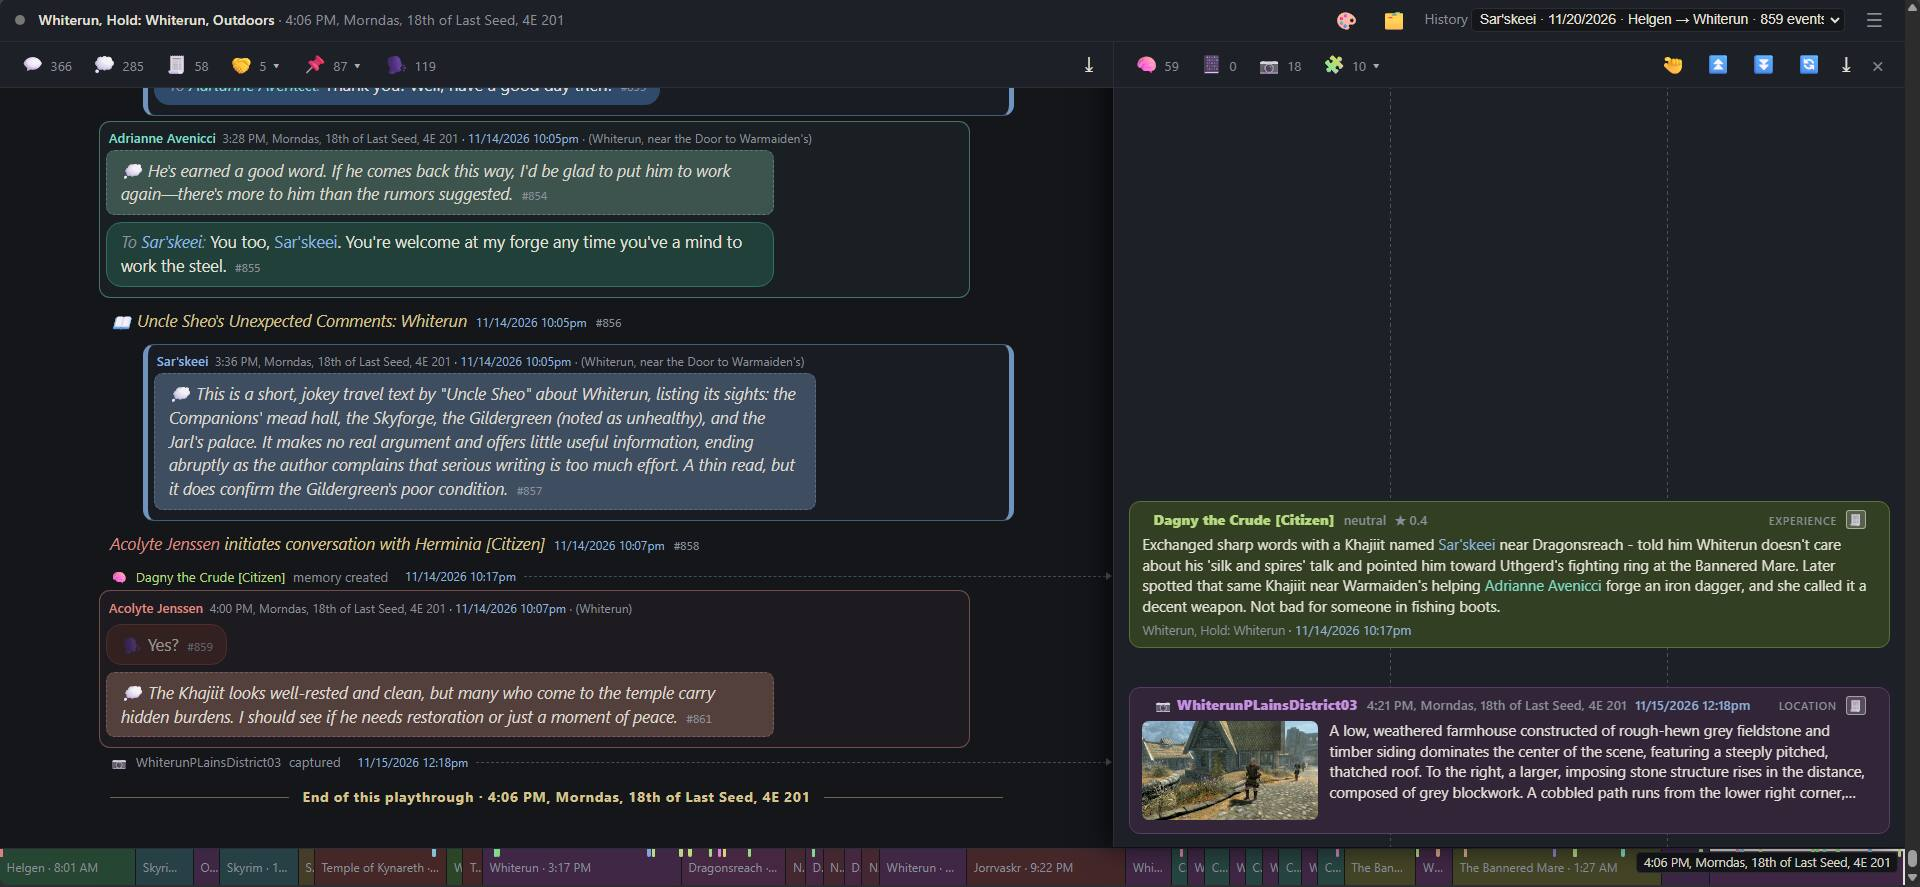
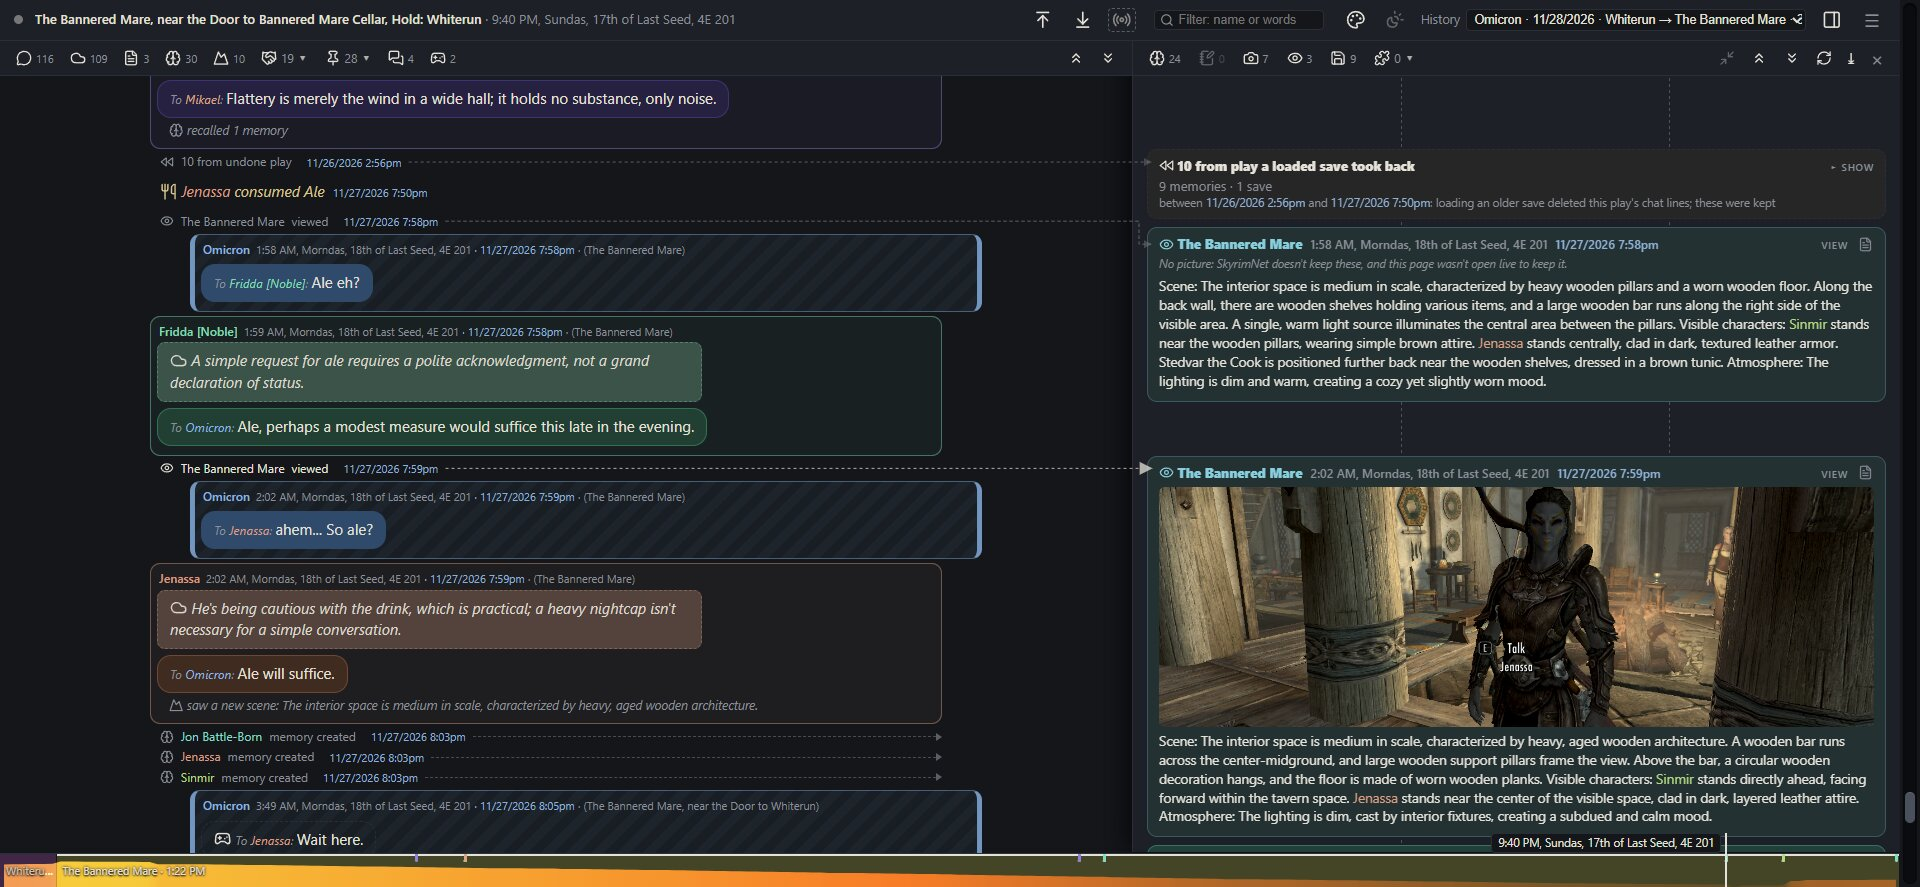
🖼 New README screenshots: 📌 connectors, ⏪ fold, 👁 views, 🏷 prompt sections

diff --git a/README.md b/README.md
@@ -13,9 +13,9 @@ A cleaner page for reading what SkyrimNet's NPCs say, think and remember.
 - **Long playthroughs:** opens with the latest 2,000 lines drawn and draws more as you scroll back, so a 15,000-line playthrough opens in about 2 seconds.
 - **Read-only, nothing to install** but Python: one small helper (`serve.py`, standard library only) and one HTML page. Nothing writes to the game, SkyrimNet or its files.
 
-![The page with 🔄 on: the end of a playthrough in Whiterun, with Adrianne Avenicci's turn, the player's own turn shifted right with thick blue sides, and beside the chat Dagny the Crude's memory and an OmniSight picture of the Whiterun plains](media/context-column.jpg)
+![The page with 🔄 on, at the Bannered Mare: the player's own turns striped in blue beside Fridda's and Jenassa's replies, 📌 markers with dashed connectors to their cards, a ⏪ card folding 10 cards from play a loaded save took back, and two 👁 views of the tavern, the second with the picture the page kept while the live view was open](media/context-column.jpg)
 
-![A line of Dreanna's clicked: the popup shows her thought and line from the same reply at the top, and below them the dialogue request that produced them, starting with her character profile](media/prompt-panel.jpg)
+![Jenassa's line clicked: the popup shows her thought and line from the same reply at the top, and below them the dialogue request that produced them (model, time, 62% cached), starting with her character profile; 🏷 lists the prompt's 32 sections](media/prompt-panel.jpg)
 
 ## Getting it
 
